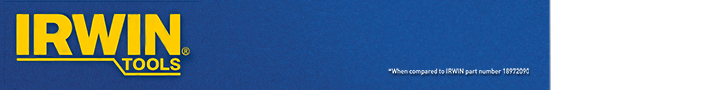
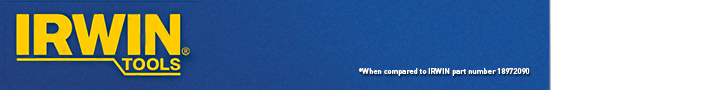
increased legal copy size

Changed region(s): [[0.4835, 0.7556, 0.7253, 0.8667]]

diff --git a/Irwin CSB/300x250b/300x250.html b/Irwin CSB/300x250b/300x250.html
@@ -24,7 +24,7 @@
         <!--  Frame 4 -->
         <div id="stronger" class="show"><img src="f4_img1.jpg"></div>
         <!--  Frame 5 -->
-        <div id="f5_img1" class="hidden"><img src="f5_img1.jpg"></div>
+        <div id="f5_img1" class="hidden"><img src="f5_img1.png"></div>
         <div id="f5_txt1" class="hidden"><img src="f5_txt1.png"></div>
         <div id="f5_txt2" class="hidden"><img src="f5_txt2.png"></div>
         <div id="f5_txt3" class="hidden"><img src="f5_txt3.png"></div>
